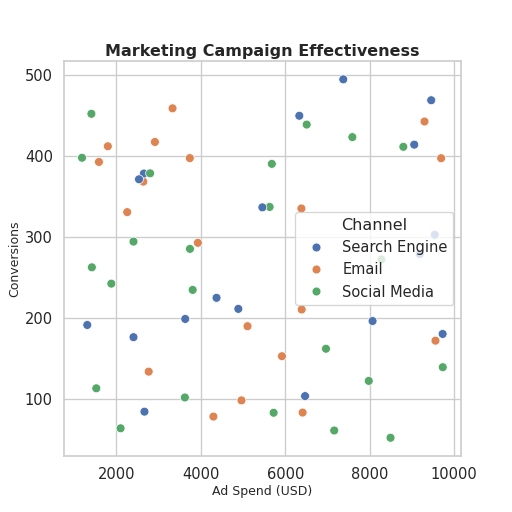
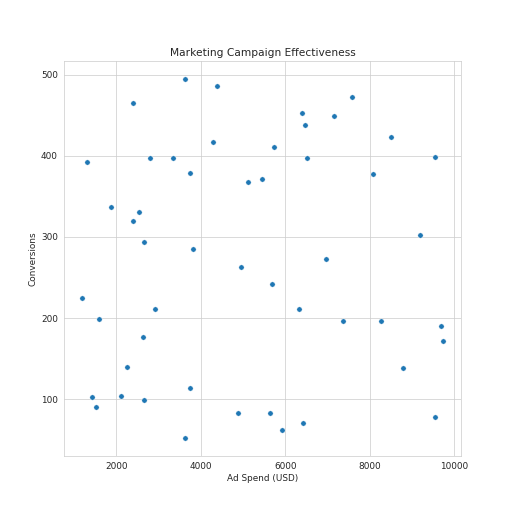
changed-v2

diff --git a/chart.py b/chart.py
@@ -4,38 +4,27 @@ import matplotlib.pyplot as plt
 import pandas as pd
 import numpy as np
 
-# Seaborn style and context
+# Seaborn style
 sns.set_style("whitegrid")
-sns.set_context("talk")
 
-# Generate realistic synthetic marketing data
+# Synthetic data
 np.random.seed(42)
-n = 60
 df = pd.DataFrame({
-    "Ad_Spend_USD": np.random.uniform(1000, 10000, n),
-    "Conversions": np.random.uniform(50, 500, n),
-    "Channel": np.random.choice(["Social Media", "Search Engine", "Email"], n)
+    "Ad_Spend_USD": np.random.uniform(1000, 10000, 50),
+    "Conversions": np.random.uniform(50, 500, 50)
 })
 
-# Create a 512x512 figure
+# Create figure 512x512 px
 fig, ax = plt.subplots(figsize=(8, 8), dpi=64)
 
-# Seaborn scatterplot
-sns.scatterplot(
-    x="Ad_Spend_USD",
-    y="Conversions",
-    hue="Channel",
-    palette="deep",
-    data=df,
-    s=100,
-    ax=ax
-)
+# Simple scatterplot (no hue, default palette)
+sns.scatterplot(x="Ad_Spend_USD", y="Conversions", data=df, ax=ax)
 
 # Titles and labels
-ax.set_title("Marketing Campaign Effectiveness", fontsize=18, fontweight="bold")
-ax.set_xlabel("Ad Spend (USD)", fontsize=14)
-ax.set_ylabel("Conversions", fontsize=14)
+ax.set_title("Marketing Campaign Effectiveness")
+ax.set_xlabel("Ad Spend (USD)")
+ax.set_ylabel("Conversions")
 
-# Save exactly 512x512 pixels without altering the figure
+# Save exact 512x512 image
 fig.savefig("chart.png", dpi=64)
 plt.close(fig)
